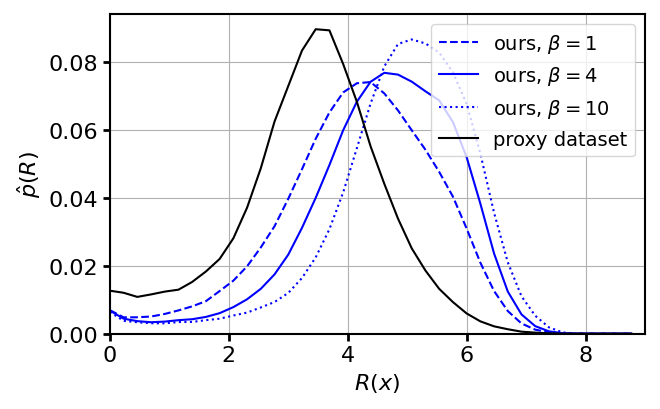
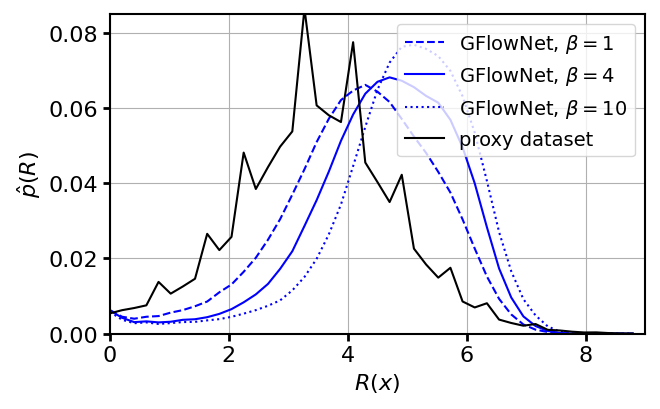
plot code for additional results

diff --git a/src/utils/plots.py b/src/utils/plots.py
@@ -50,8 +50,8 @@ def make_empirical_density_plot():
     rewards_beta4 = np.array(rewards_beta4)
     rewards_beta10 = np.array(rewards_beta10)
 
-    # get rewards for proxy dataset data/processed/rewards_proxy_dataset.pkl.gz
-    df_rewards = pd.read_pickle("data/processed/rewards_proxy_dataset.pkl.gz")
+    # get rewards for proxy dataset data/processed/rewards_proxy_dataset_true.pkl.gz
+    df_rewards = pd.read_pickle("data/processed/rewards_proxy_dataset_true.pkl.gz")
     
     # change to numpy array
     df_rewards = np.array(df_rewards)
@@ -59,11 +59,11 @@ def make_empirical_density_plot():
     linestyles = ['--', '-', ':', '-']
     colors = ['blue', 'blue', 'blue', 'black']
     #legends = [r'$\hat{p}(R | \beta=1)$', r'$\hat{p}(R | \beta=4)$', r'$\hat{p}(R | \beta=10)$', r'$\hat{p}(R | \mathrm{proxy\ dataset})$']
-    legends = [r'ours, $\beta=1$',r'ours, $\beta=4$',r'ours, $\beta=10$',"proxy dataset"]
+    legends = [r'GFlowNet, $\beta=1$',r'GFlowNet, $\beta=4$',r'GFlowNet, $\beta=10$',"proxy dataset"]
 
     fig, ax = plt.subplots(figsize=(6.6, 4.1))
 
-    nbins = 40
+    nbins = 45
     bins = np.linspace(0,9,nbins)
 
     # plot empirical density for each beta
@@ -75,7 +75,7 @@ def make_empirical_density_plot():
 
     ax.grid()
     ax.set_xlim(0,9)
-    ax.set_ylim(bottom=0.00)
+    ax.set_ylim(0.00,0.085)
 
     fontsize = 16
     ax.set_xlabel(r'$R(x)$',fontsize=fontsize)
@@ -160,7 +160,11 @@ def make_top_k_plot(k_values, experiment_ids):
         for tk in top_k_avg_runs[i]:
             top_k_avg += tk
         top_k_avg /= len(top_k_avg_runs[i])
-        ax.semilogx(top_k_rids, top_k_avg, ls, color="blue",label=lg)
+        if ls == '-':
+            ax.semilogx(top_k_rids, top_k_avg, ls, color="blue",label="GFlowNet")
+        ax.semilogx(top_k_rids, top_k_avg, ls, color="black",label=lg)
+        ax.semilogx(top_k_rids, top_k_avg, ls, color="blue")
+        
         
     fontsize = 16
     plt.xlim(1e1,1e6)
@@ -174,8 +178,16 @@ def make_top_k_plot(k_values, experiment_ids):
     plt.xlabel("molecules visited", fontsize=fontsize)
     plt.ylabel("avg " + r"$R$" + " of unique top " + r"$k$", fontsize=fontsize)
 
-    plt.legend(fontsize=fontsize-2)
+    #get handles and labels
+    handles, labels = plt.gca().get_legend_handles_labels()
 
+    #specify order of items in legend
+    order = [2,0,1,3]
+
+    #add legend to plot
+    plt.legend([handles[idx] for idx in order],[labels[idx] for idx in order],
+               loc="upper left",fontsize=fontsize-2) 
+    
     [x.set_linewidth(1.5) for x in ax.spines.values()]
     ax.xaxis.set_tick_params(width=2,length=5)
     ax.yaxis.set_tick_params(width=2,length=5)
@@ -483,7 +495,7 @@ def make_bemis_murcko_avg_plot(T):
     
     plt.tight_layout()
 
-    figures_path = f"reports/figures"
+    figures_path = f"reports/figures/experiment_1"
     os.makedirs(figures_path, exist_ok=True)
 
     # save file
@@ -1250,6 +1262,53 @@ def make_reward_threshold_plot(thresholds, experiment_id):
     # save file
     file_id = len(rewards)
     filename = f"{figures_path}/reward_threshold_plot_{file_id}.png"
+    plt.savefig(filename)
+
+def make_proxy_true_density_plot():
+    # get rewards for proxy dataset data/processed/rewards_proxy_dataset_true.pkl.gz
+    rewards_true = pd.read_pickle("data/processed/rewards_proxy_dataset_true.pkl.gz")
+    rewards = pd.read_pickle("data/processed/rewards_proxy_dataset.pkl.gz")
+    
+    linestyles = ['-', '-']
+    colors = ['black', 'blue']
+    legends = ["target values", "proxy"]
+
+    fig, ax = plt.subplots(figsize=(6.6, 4.1))
+
+    nbins = 45
+    bins = np.linspace(0,9,nbins)
+
+    # plot empirical density for each beta
+    for i, rewards in enumerate([rewards_true, rewards]):
+        pdf, bins = np.histogram(rewards, density=False, bins=bins)
+        pdf = pdf / np.sum(pdf)
+        ax.plot(bins[:-1], pdf, linestyle=linestyles[i], color=colors[i], label=legends[i])
+        
+
+    ax.grid()
+    ax.set_xlim(0,9)
+    ax.set_ylim(0.00,0.085)
+
+    fontsize = 16
+    ax.set_xlabel(r'$R(x)$',fontsize=fontsize)
+    ax.set_ylabel('density',fontsize=fontsize)
+    ax.set_xticks(np.arange(0, 9, 2))
+    ax.set_yticks([0.0,0.02,0.04,0.06,0.08])
+    ax.tick_params(axis='x', labelsize=fontsize)
+    ax.tick_params(axis='y', labelsize=fontsize)
+    ax.legend(loc="upper right",fontsize=fontsize-2)
+
+    [x.set_linewidth(1.5) for x in ax.spines.values()]
+    ax.xaxis.set_tick_params(width=2,length=5)
+    ax.yaxis.set_tick_params(width=2,length=5)
+
+    plt.tight_layout()
+
+    figures_path = f"reports/figures"
+    os.makedirs(figures_path, exist_ok=True)
+    
+    # save file
+    filename = f"{figures_path}/empirical_density_proxy_plot.png"
     plt.savefig(filename)
     
         

diff --git a/src/data/evaluate_dataset.py b/src/data/evaluate_dataset.py
@@ -1,0 +1,87 @@
+import pickle
+import torch
+import gzip
+import time
+import numpy as np
+from src.utils.mols import BlockMolecule
+from src.utils.proxy import Proxy
+from src.utils.plots import *
+from src.models.model import GFlownet
+from torch_geometric.data import Batch
+import matplotlib.pyplot as plt
+import os
+import pandas as pd
+import json
+
+# load data points
+filename = "docked_mols.csv"
+path = f"data/processed/{filename}"
+
+df = pd.read_csv(path)
+
+columns = df.columns 
+
+for name in columns[2:]:
+    df.loc[:,name] = df[name].apply(json.loads)
+
+proxy = Proxy(device=torch.device("cpu"))
+
+rewards = []
+
+begin_time = time.time()
+
+use_proxy = False
+
+# loop over the number of rows
+for i in range(len(df)):
+    if use_proxy:
+        # get the row
+        row = df.iloc[i]
+        # get the stem
+        stems = row["stems"]
+        # get jbonds
+        jbonds = row["jbonds"]
+        # get blockidx
+        blockidxs = row["blockidxs"]
+        # get slices
+        slices = row["slices"]
+        # get smiles
+        smiles = row["smiles"]
+
+        # make the molecule
+        mol = BlockMolecule()
+        # set the stem
+        mol.stems = stems
+        # set the jbonds
+        mol.jbonds = jbonds
+        # set the blockidx
+        mol.blockidxs = blockidxs
+        # set the slices
+        mol.slices = slices
+        
+        # set the blocks
+        #loop over the blockidxs
+        for blockidx in mol.blockidxs:
+            smi = mol.bdict.block_smis[blockidx]
+            mol.blocks.append(Chem.MolFromSmiles(smi))
+        
+        # append proxy([mol]).item() to rewards
+        rewards.append(proxy([mol]).item())
+    else:
+        mu, std = [-8.6, 1.1]
+        transform = lambda v: 4 - (v-mu) / std
+        rewards.append(transform(df.dockscore[i]))
+
+    end_time = time.time()
+    # for every 100 print end_time - begin_time
+    if i % 10000 == 0:
+        print(f"{i} / {len(df)}")
+        print(f"Time: {end_time - begin_time}")
+    
+    
+    
+
+
+# save the rewards
+ext = "_true" if not use_proxy else ""
+pickle.dump(rewards, gzip.open(f"data/processed/rewards_proxy_dataset{ext}.pkl.gz", "wb"))

diff --git a/src/visualization/visualize_results.py b/src/visualization/visualize_results.py
@@ -20,7 +20,7 @@ if __name__ == "__main__":
 
     #make_top_k_plot([10,100,1000], experiment_ids)
     #make_empirical_density_plot()
-    #make_bemis_murcko_avg_plot(7.5)
+    #make_bemis_murcko_avg_plot(7)
 
     #make_bemis_murcko_avg_plot()
     #make_leaf_flow_loss_plot(experiment_id)
@@ -36,3 +36,5 @@ if __name__ == "__main__":
     #make_blocksize_distribution_plot()
     #make_nonhydrogen_distribution_plot()
     #make_covariance_matrix_plot()
+
+    #make_proxy_true_density_plot()
